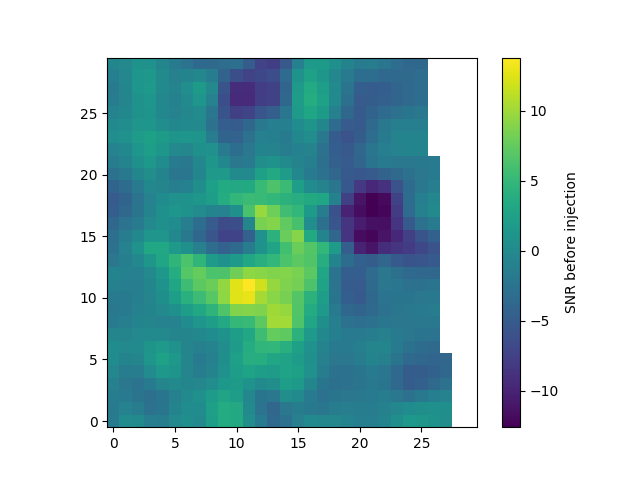
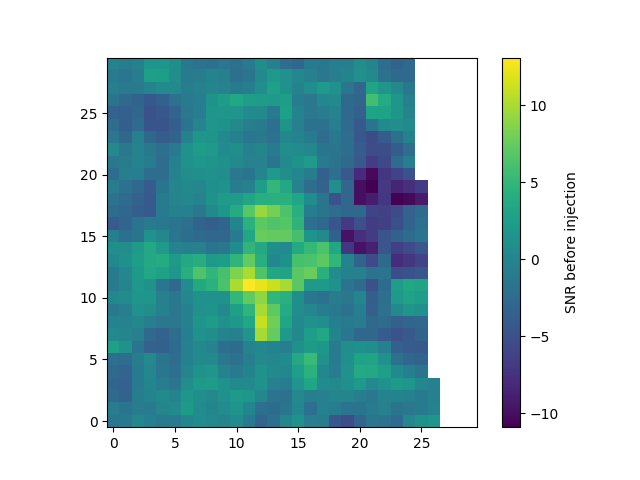
start contrast

diff --git a/inject.py b/inject.py
@@ -25,7 +25,8 @@ from breads.fm.hc_splinefm import hc_splinefm
 
 numthreads = 16
 dir_name = "/scr3/jruffio/data/osiris_survey/targets/HD148352/210626/reduced/"
-fil = os.listdir(dir_name)[1]
+fil = os.listdir(dir_name)[15]
+print(fil)
 
 planet_btsettl = "/scr3/jruffio/models/BT-Settl/BT-Settl_M-0.0_a+0.0/lte018-5.0-0.0a+0.0.BT-Settl.spec.7"
 tr_file = "/scr3/jruffio/data/osiris_survey/targets/SR3/210626/first/reduced/spectra/s210626_a018002_Kn5_020_spectrum.fits"
@@ -53,7 +54,7 @@ dataobj.set_reference_position((np.nanmedian(mu_y), np.nanmedian(mu_x)))
 print(dataobj.refpos)
 
 fm_paras = {"planet_f":planet_f,"transmission":transmission,"star_spectrum":star_spectrum,
-        "boxw":5,"nodes":4,"psfw":1.2,"nodes":5,"badpixfraction":0.75}
+        "boxw":3,"nodes":4,"psfw":1.2,"nodes":5,"badpixfraction":0.75}
 fm_func = hc_splinefm
 rvs = np.array([0])
 ys = np.arange(-15, 15)
@@ -73,45 +74,46 @@ plt.imshow(np.nanmedian(dataobj.data, axis=0), origin="lower")
 cbar = plt.colorbar()
 plt.savefig(f"./plots/injection/HD148352/before_median.png")
 
-print("SNR time")
-out = search_planet([rvs,ys,xs],dataobj,fm_func,fm_paras,numthreads=numthreads)
-N_linpara = (out.shape[-1]-2)//2
-print(out.shape)
-plt.figure()
-plt.imshow(out[0,:,:,3]/out[0,:,:,3+N_linpara],origin="lower")
-cbar = plt.colorbar()
-cbar.set_label("SNR before injection")
-plt.savefig(f"./plots/injection/HD148352/before_SNR.png")
-# plt.show()
+# print("SNR time")
+# out = search_planet([rvs,ys,xs],dataobj,fm_func,fm_paras,numthreads=numthreads)
+# N_linpara = (out.shape[-1]-2)//2
+# print(out.shape)
+# plt.figure()
+# plt.imshow(out[0,:,:,3]/out[0,:,:,3+N_linpara],origin="lower")
+# cbar = plt.colorbar()
+# cbar.set_label("SNR before injection")
+# plt.savefig(f"./plots/injection/HD148352/before_SNR.png")
+# # plt.show()
 
-hdulist = pyfits.HDUList()
-hdulist.append(pyfits.PrimaryHDU(data=dataobj.data, \
-    header=pyfits.Header(cards={"TYPE": "data", "FILE": fil, "SKY_CALIB": sky_calib_file})))  
-hdulist.append(pyfits.PrimaryHDU(data=out, header=pyfits.Header(cards={"TYPE": "data", \
-    "PLANET": planet_btsettl, "FLUX": spec_file, "TRANS": tr_file, "SKY_CALIB": sky_calib_file})))                                  
-try:
-    hdulist.writeto("./plots/injection/HD148352/before.fits", overwrite=True)
-except TypeError:
-    hdulist.writeto("./plots/injection/HD148352/before.fits", clobber=True)
-hdulist.close()
+# hdulist = pyfits.HDUList()
+# hdulist.append(pyfits.PrimaryHDU(data=dataobj.data, \
+#     header=pyfits.Header(cards={"TYPE": "data", "FILE": fil, "CALIB": sky_calib_file})))  
+# hdulist.append(pyfits.PrimaryHDU(data=out, header=pyfits.Header(cards={"TYPE": "data", \
+#     "PLANET": planet_btsettl, "FLUX": spec_file, "TRANS": tr_file})))                                  
+# try:
+#     hdulist.writeto("./plots/injection/HD148352/before.fits", overwrite=True)
+# except TypeError:
+#     hdulist.writeto("./plots/injection/HD148352/before.fits", clobber=True)
+# hdulist.close()
 
 
 ########################
-flux_ratio = 0.1
-inject_planet(dataobj, (-10, -10), planet_f, spec_file, transmission, flux_ratio)
+flux_ratio = 1e-2
+location = (10, 0)
+inject_planet(dataobj, location, planet_f, spec_file, transmission, flux_ratio)
 
 print("plotting image after injection")
 plt.figure()
 plt.imshow(dataobj.data[0], origin="lower")
 plt.title("after injection (one slice)")
 cbar = plt.colorbar()
-plt.savefig(f"./plots/injection/HD148352/after_slice_{flux_ratio}.png")
+plt.savefig(f"./plots/injection/HD148352/after_slice_{flux_ratio}_{location}.png")
 
 plt.figure()
 plt.title("after injection (median)")
 plt.imshow(np.nanmedian(dataobj.data, axis=0), origin="lower")
 cbar = plt.colorbar()
-plt.savefig(f"./plots/injection/HD148352/after_median_{flux_ratio}.png")
+plt.savefig(f"./plots/injection/HD148352/after_median_{flux_ratio}_{location}.png")
 
 print("SNR time")
 out = search_planet([rvs,ys,xs],dataobj,fm_func,fm_paras,numthreads=numthreads)
@@ -121,16 +123,19 @@ plt.figure()
 plt.imshow(out[0,:,:,3]/out[0,:,:,3+N_linpara],origin="lower")
 cbar = plt.colorbar()
 cbar.set_label("SNR after injection")
-plt.savefig(f"./plots/injection/HD148352/after_SNR_{flux_ratio}.png")
+plt.savefig(f"./plots/injection/HD148352/after_SNR_{flux_ratio}_{location}.png")
+
+print(np.nanmax(out[:,:,:,3]))
+print(np.nanmax(out[:,15+location[0]-2:15+location[0]+3,15+location[1]-2:15+location[1]+3,3]))
 
 hdulist = pyfits.HDUList()
 hdulist.append(pyfits.PrimaryHDU(data=dataobj.data, header=pyfits.Header(cards={"TYPE": "data"})))  
 hdulist.append(pyfits.PrimaryHDU(data=out, header=pyfits.Header(cards={"TYPE": "data", \
-    "PLANET": planet_btsettl, "FLUX": spec_file, "TRANS": tr_file, "SKY_CALIB": sky_calib_file})))                                  
+    "PLANET": planet_btsettl, "FLUX": spec_file, "TRANS": tr_file, "CALIB": sky_calib_file})))                                  
 try:
-    hdulist.writeto("./plots/injection/HD148352/before.fits", overwrite=True)
+    hdulist.writeto(f"./plots/injection/HD148352/after_{flux_ratio}_{location}.fits", overwrite=True)
 except TypeError:
-    hdulist.writeto("./plots/injection/HD148352/before.fits", clobber=True)
+    hdulist.writeto(f"./plots/injection/HD148352/after_{flux_ratio}_{location}.fits", clobber=True)
 hdulist.close()
 
 plt.show()
